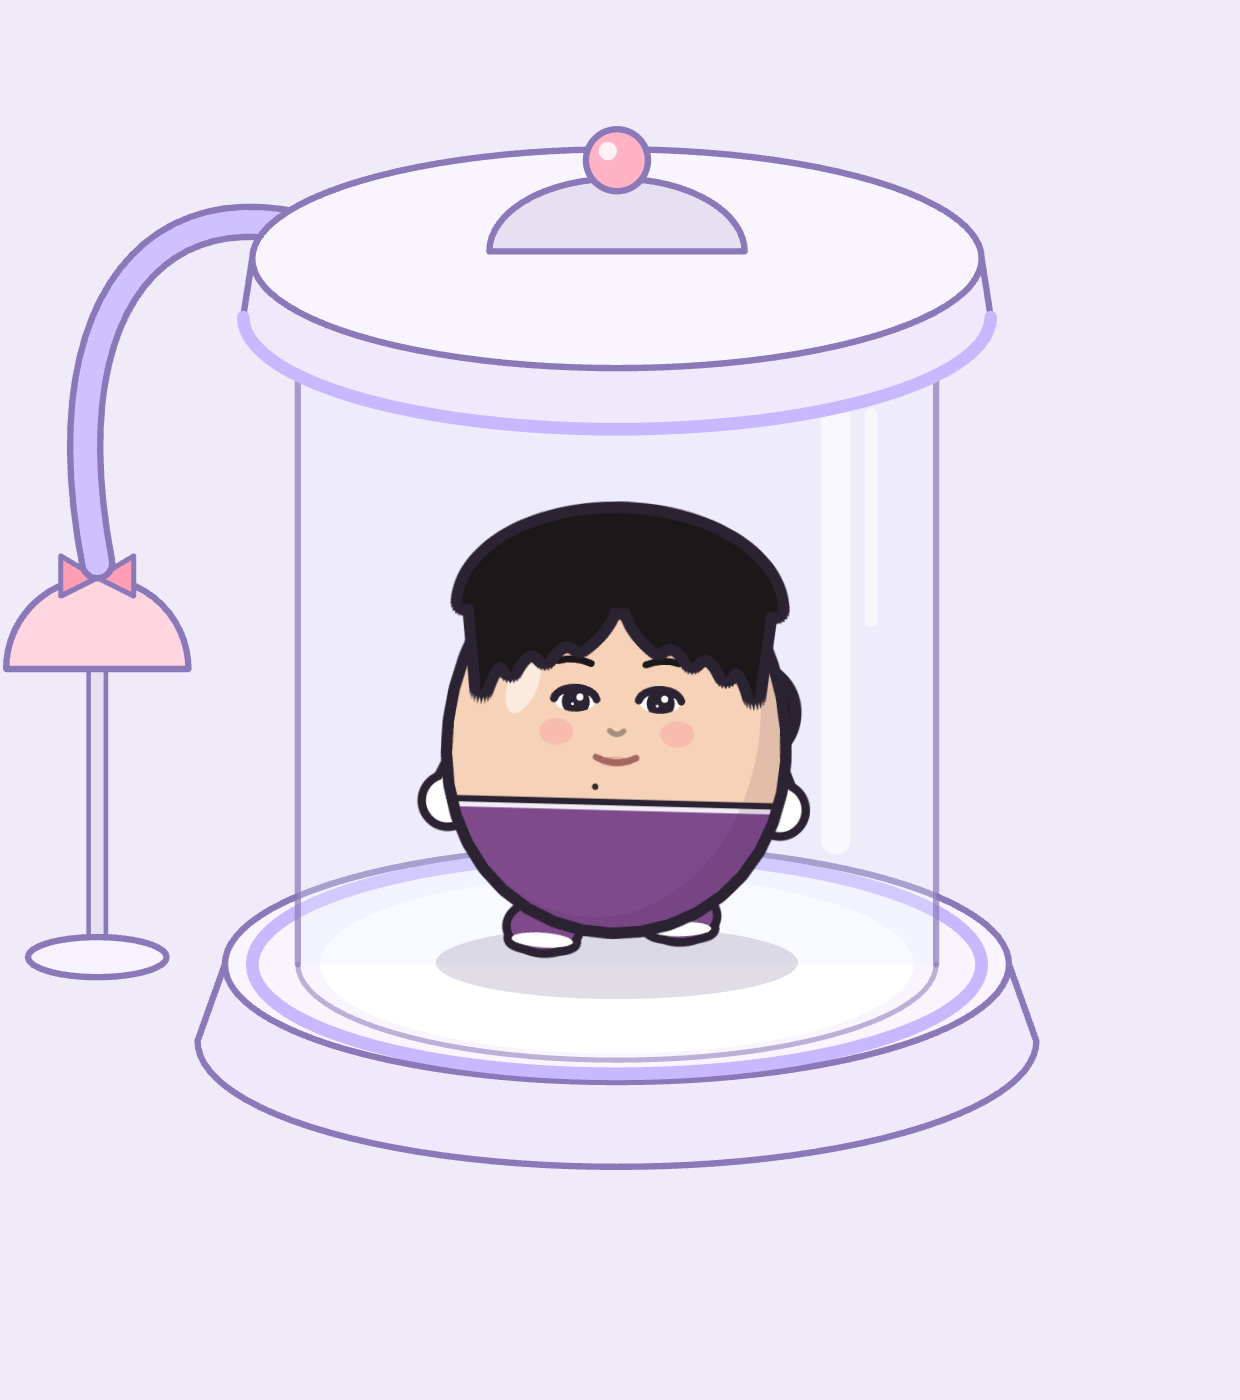
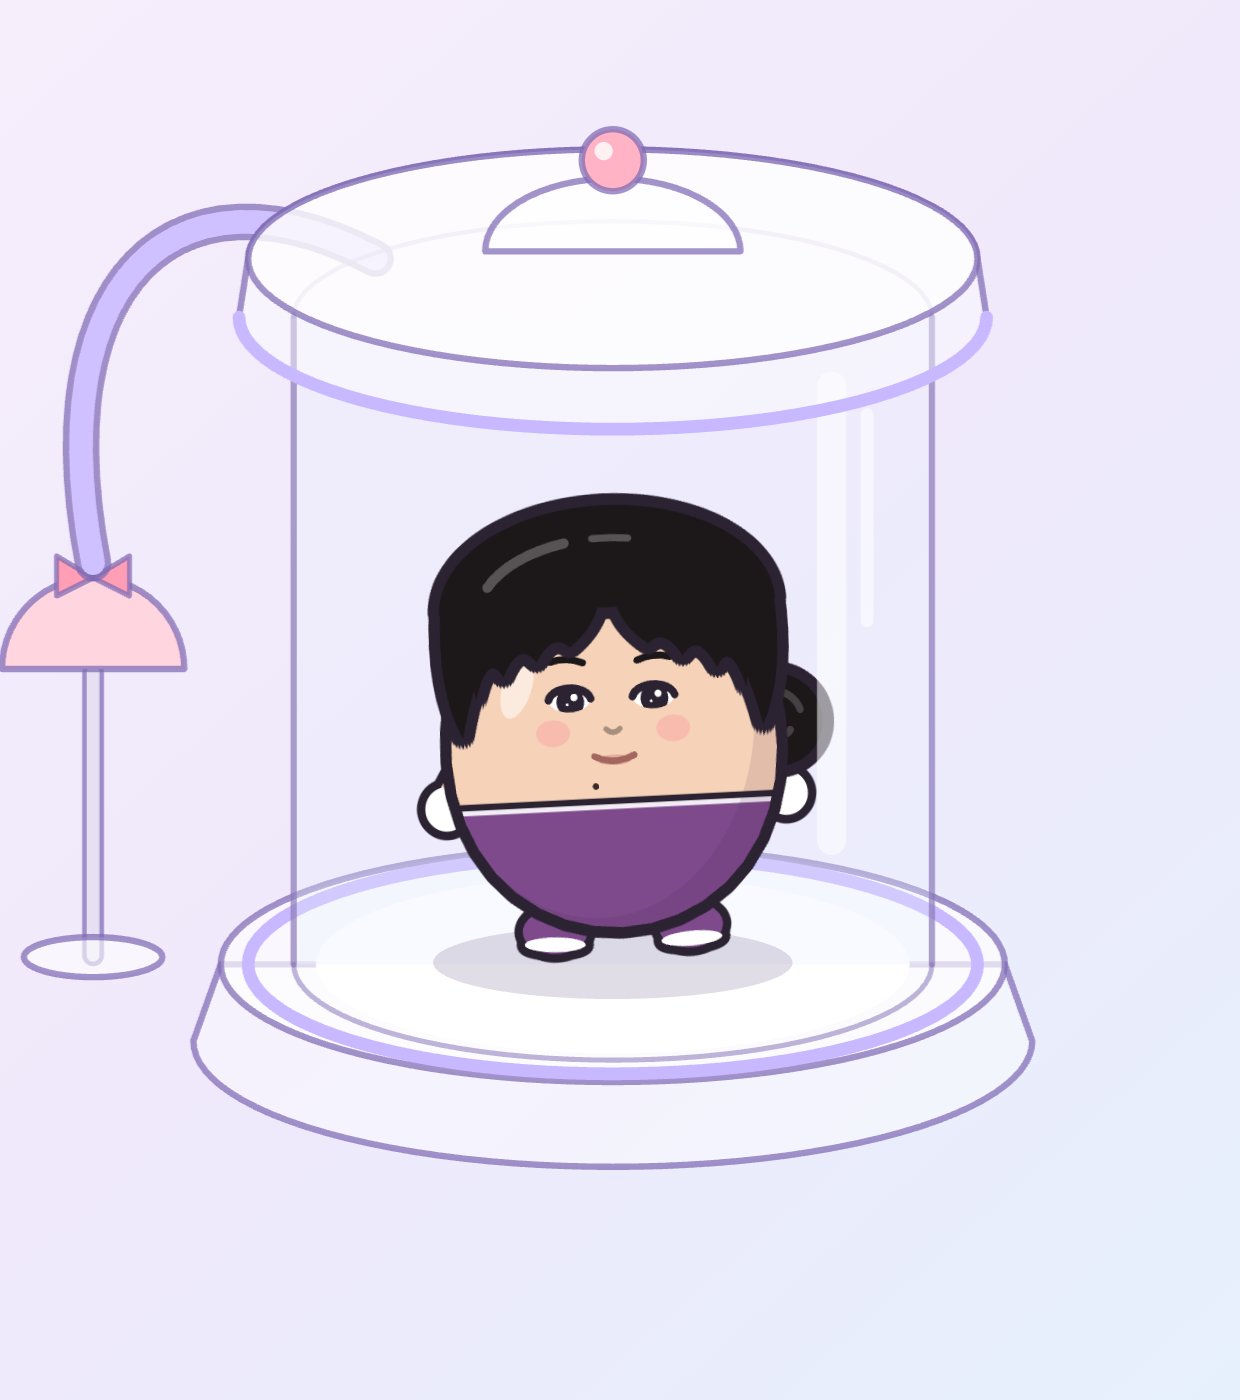
Glassier, more minimal UI; better cartoon hair: fuller crown, side locks, shine, visible bun

diff --git a/src/style.css b/src/style.css
@@ -5,11 +5,14 @@
   --rose: #d9466e;
   --hot: #e2405f;
   --gold: #b87808;
-  --glass: rgba(255, 255, 255, 0.52);
-  --glass-strong: rgba(255, 255, 255, 0.78);
-  --glass-hi: inset 0 1px 0 rgba(255, 255, 255, 0.9), inset 0 0 0 1px rgba(255, 255, 255, 0.45);
-  --lift: 0 10px 30px -12px rgba(66, 44, 120, 0.28), 0 2px 6px -2px rgba(66, 44, 120, 0.12);
-  --blur: blur(20px) saturate(1.5);
+  --glass: rgba(255, 255, 255, 0.3);
+  --glass-strong: rgba(255, 255, 255, 0.46);
+  /* a light catching the top edge, a hairline rim, and a faint inner glow at the bottom */
+  --glass-hi: inset 0 1px 0 rgba(255, 255, 255, 0.95), inset 0 0 0 1px rgba(255, 255, 255, 0.55),
+    inset 0 -10px 24px -18px rgba(255, 255, 255, 0.9);
+  --sheen: linear-gradient(150deg, rgba(255, 255, 255, 0.5) 0%, rgba(255, 255, 255, 0.12) 42%, rgba(255, 255, 255, 0.04) 100%);
+  --lift: 0 16px 40px -22px rgba(66, 44, 120, 0.32);
+  --blur: blur(28px) saturate(1.8);
   --radius: 16px;
   --font: 'Fredoka Variable', ui-rounded, system-ui, sans-serif;
   --ease-out: cubic-bezier(0.16, 1, 0.3, 1);
@@ -37,8 +40,10 @@ body {
   font-family: var(--font);
   color: var(--ink);
   background:
-    radial-gradient(120% 80% at 50% 0%, #f4efff 0%, rgba(244, 239, 255, 0) 60%),
+    radial-gradient(120% 80% at 50% 0%, #f6f2ff 0%, rgba(246, 242, 255, 0) 60%),
+    radial-gradient(60% 45% at 8% 22%, rgba(255, 205, 222, 0.7) 0%, rgba(255, 205, 222, 0) 70%),
     radial-gradient(90% 70% at 15% 100%, #ffe3d6 0%, rgba(255, 227, 214, 0) 70%),
+    radial-gradient(55% 45% at 95% 30%, rgba(206, 240, 228, 0.75) 0%, rgba(206, 240, 228, 0) 70%),
     radial-gradient(80% 60% at 90% 90%, #ddeeff 0%, rgba(221, 238, 255, 0) 70%),
     #efe9fb;
   -webkit-font-smoothing: antialiased;
@@ -82,7 +87,7 @@ button {
 }
 
 .glass {
-  background: var(--glass);
+  background: var(--sheen), var(--glass);
   backdrop-filter: var(--blur);
   -webkit-backdrop-filter: var(--blur);
   box-shadow: var(--glass-hi), var(--lift);
@@ -138,8 +143,8 @@ svg {
 
 #splash-title {
   margin: 0;
-  font-size: clamp(48px, 13vw, 84px);
-  font-weight: 650;
+  font-size: clamp(46px, 12vw, 78px);
+  font-weight: 600;
   letter-spacing: -0.03em;
   line-height: 0.95;
 }
@@ -163,9 +168,9 @@ svg {
   align-items: flex-start;
   gap: 4px;
   padding: 16px 16px 14px;
-  border-radius: 20px;
+  border-radius: 22px;
   text-align: left;
-  background: var(--glass-strong);
+  background: var(--sheen), var(--glass-strong);
   transition:
     transform 0.25s var(--ease-out),
     box-shadow 0.25s var(--ease-out);
@@ -176,8 +181,8 @@ svg {
 }
 
 .mode-name {
-  font-size: 24px;
-  font-weight: 650;
+  font-size: 21px;
+  font-weight: 600;
   letter-spacing: -0.01em;
 }
 
@@ -195,7 +200,7 @@ svg {
 }
 
 .mode.hot {
-  background: linear-gradient(160deg, rgba(255, 255, 255, 0.82), rgba(255, 214, 224, 0.82));
+  /* same glass as Play; only the name carries the accent */
 }
 
 .mode.hot .mode-name {
@@ -385,7 +390,7 @@ svg {
   transition:
     opacity 0.18s,
     transform 0.35s var(--ease-out);
-  background: var(--glass-strong);
+  background: var(--sheen), var(--glass-strong);
 }
 
 .bubble::after {
@@ -519,12 +524,12 @@ body.pulse #stage {
   height: 76px;
   padding: 0 34px;
   border-radius: 999px;
-  font-size: 24px;
-  font-weight: 650;
-  background: var(--glass-strong);
+  font-size: 23px;
+  font-weight: 600;
+  background: var(--sheen), var(--glass-strong);
   backdrop-filter: var(--blur);
   -webkit-backdrop-filter: var(--blur);
-  box-shadow: var(--glass-hi), var(--lift), 0 0 0 2px rgba(217, 70, 110, 0.55);
+  box-shadow: var(--glass-hi), var(--lift);
   touch-action: none;
   transition:
     transform 0.25s var(--ease-out),
@@ -541,15 +546,15 @@ body.pulse #stage {
   font-weight: 600;
   padding: 3px 8px;
   border-radius: 8px;
-  background: rgba(43, 36, 64, 0.07);
+  background: rgba(255, 255, 255, 0.55);
   color: var(--ink-2);
 }
 
 .hold.down {
   transform: scale(0.96);
-  background: var(--rose);
+  background: linear-gradient(150deg, rgba(255, 255, 255, 0.28), rgba(255, 255, 255, 0) 50%), rgba(226, 64, 95, 0.78);
   color: #fff;
-  box-shadow: var(--glass-hi), 0 4px 18px -6px var(--rose), 0 0 0 2px var(--rose);
+  box-shadow: var(--glass-hi), 0 10px 30px -12px rgba(226, 64, 95, 0.8);
 }
 
 .hold.down kbd {
@@ -563,7 +568,7 @@ body.pulse #stage {
 
 @keyframes invite {
   50% {
-    box-shadow: var(--glass-hi), var(--lift), 0 0 0 6px rgba(217, 70, 110, 0.25);
+    box-shadow: var(--glass-hi), var(--lift), 0 0 0 8px rgba(255, 255, 255, 0.45);
   }
 }
 
@@ -601,9 +606,9 @@ body.pulse #stage {
 .card {
   width: min(460px, 100%);
   padding: 22px 22px 18px;
-  border-radius: 24px;
+  border-radius: 28px;
   text-align: center;
-  background: var(--glass-strong);
+  background: var(--sheen), var(--glass-strong);
   animation: rise 0.45s var(--ease-out);
 }
 
@@ -700,7 +705,7 @@ body.pulse #stage {
 .primary {
   background: var(--ink);
   color: #fff;
-  box-shadow: 0 8px 22px -10px var(--ink);
+  box-shadow: 0 10px 24px -14px var(--ink);
 }
 
 .primary kbd {
@@ -719,7 +724,7 @@ body.pulse #stage {
 }
 
 .ghost {
-  background: rgba(255, 255, 255, 0.6);
+  background: rgba(255, 255, 255, 0.34);
   box-shadow: var(--glass-hi);
 }
 
@@ -747,8 +752,8 @@ body.pulse #stage {
   right: var(--gutter);
   bottom: max(12px, env(safe-area-inset-bottom));
   width: min(420px, calc(100% - 32px));
-  border-radius: 24px;
-  background: rgba(255, 255, 255, 0.86);
+  border-radius: 28px;
+  background: var(--sheen), rgba(255, 255, 255, 0.5);
   display: flex;
   flex-direction: column;
   animation: slide 0.4s var(--ease-out);
@@ -791,7 +796,8 @@ body.pulse #stage {
   gap: 4px;
   padding: 4px;
   border-radius: 999px;
-  background: rgba(43, 36, 64, 0.06);
+  background: rgba(255, 255, 255, 0.3);
+  box-shadow: inset 0 0 0 1px rgba(255, 255, 255, 0.55);
 }
 
 .seg button {
@@ -804,9 +810,9 @@ body.pulse #stage {
 }
 
 .seg button[aria-selected='true'] {
-  background: #fff;
+  background: rgba(255, 255, 255, 0.85);
   color: var(--ink);
-  box-shadow: 0 2px 8px -3px rgba(43, 36, 64, 0.3);
+  box-shadow: 0 4px 12px -6px rgba(43, 36, 64, 0.3);
 }
 
 .seg.small button {
@@ -919,7 +925,7 @@ body.pulse #stage {
   font-size: 15px;
   font-weight: 600;
   color: var(--ink-2);
-  background: rgba(43, 36, 64, 0.05);
+  background: transparent;
 }
 
 .maker-tabs button[aria-selected='true'] {
@@ -959,9 +965,9 @@ body.pulse #stage {
   justify-items: center;
   gap: 2px;
   padding: 6px 4px 8px;
-  border-radius: 14px;
-  background: rgba(255, 255, 255, 0.7);
-  box-shadow: inset 0 0 0 1px rgba(43, 36, 64, 0.08);
+  border-radius: 16px;
+  background: rgba(255, 255, 255, 0.38);
+  box-shadow: inset 0 0 0 1px rgba(255, 255, 255, 0.6);
   font-size: 12px;
   font-weight: 600;
   color: var(--ink-2);
@@ -973,7 +979,8 @@ body.pulse #stage {
 }
 
 .thumbs button[aria-pressed='true'] {
-  box-shadow: inset 0 0 0 2.5px var(--ink);
+  background: rgba(255, 255, 255, 0.8);
+  box-shadow: inset 0 0 0 2px var(--ink);
   color: var(--ink);
 }
 

diff --git a/src/face2d.ts b/src/face2d.ts
@@ -600,13 +600,28 @@ export function drawHead2D(
       c.beginPath();
       if (look.hair === 'long') c.ellipse(cx, cy - h * 0.05, w * 1.12, h * 0.98, 0, 0, Math.PI * 2);
       else if (look.hair === 'bob') c.ellipse(cx, cy - h * 0.32, w * 1.12, h * 0.72, 0, 0, Math.PI * 2);
+      else if (toon) c.ellipse(cx + w * 1.0, cy + h * 0.02, w * 0.3, w * 0.28, 0.3, 0, Math.PI * 2);
       else c.arc(cx + w * 0.8, cy - h * 0.08, w * 0.26, 0, Math.PI * 2);
       c.fill();
       if (toon && look.hair === 'lowbun') {
-        // scrunchie where the bun meets her head
+        // the bun's twist, a soft shine on it, and a scrunchie where it meets her head
+        const bx = cx + w * 1.0;
+        const by = cy + h * 0.02;
+        c.strokeStyle = 'rgba(255,255,255,0.18)';
+        c.lineWidth = w * 0.045;
+        c.beginPath();
+        c.arc(bx, by, w * 0.17, Math.PI * 1.1, Math.PI * 1.9);
+        c.stroke();
+        c.beginPath();
+        c.arc(bx + w * 0.03, by + w * 0.02, w * 0.08, Math.PI * 0.2, Math.PI * 1.3);
+        c.stroke();
         c.fillStyle = look.outfit;
         c.beginPath();
-        c.ellipse(cx + w * 0.66, cy - h * 0.08, w * 0.07, w * 0.17, 0.2, 0, Math.PI * 2);
+        c.ellipse(cx + w * 0.78, cy + h * 0.0, w * 0.08, w * 0.19, 0.25, 0, Math.PI * 2);
+        c.fill();
+        c.fillStyle = 'rgba(255,255,255,0.35)';
+        c.beginPath();
+        c.ellipse(cx + w * 0.76, cy - h * 0.05, w * 0.025, w * 0.07, 0.25, 0, Math.PI * 2);
         c.fill();
       }
     });
@@ -712,7 +727,9 @@ export function drawHead2D(
     }
     if (look.hair !== 'buzz') {
       c.beginPath();
-      c.ellipse(cx, capY, w * 0.97, h * 0.47, 0, Math.PI, Math.PI * 2);
+      // a fuller crown in the cartoon style: a little wider than her head, like real volume
+      if (toon) c.ellipse(cx, capY + h * 0.01, w * 1.04, h * 0.5, 0, Math.PI, Math.PI * 2);
+      else c.ellipse(cx, capY, w * 0.97, h * 0.47, 0, Math.PI, Math.PI * 2);
       c.closePath();
       c.fill();
     } else {
@@ -795,7 +812,37 @@ export function drawHead2D(
         c.arc(cx, look.hair === 'bun' ? top - w * 0.1 : cy - h * 0.05, w * 0.32, 0, Math.PI * 2);
         c.fill();
       }
-    } else drawBangs(c, look, faceS * 1.3, cx, capY, o);
+    } else {
+      if (toon && (look.hair === 'lowbun' || look.hair === 'long' || look.hair === 'bob' || look.hair === 'ponytail')) {
+        // face-framing side locks that tuck in toward her cheeks
+        c.fillStyle = hairFill;
+        const deep = look.hair === 'long' ? 0.32 : look.hair === 'bob' ? 0.14 : 0.04;
+        for (const sx of [-1, 1]) {
+          c.beginPath();
+          c.moveTo(cx + sx * w * 1.03, capY - h * 0.03);
+          c.quadraticCurveTo(cx + sx * w * 1.08, cy - h * 0.2, cx + sx * w * 0.93, cy + h * deep);
+          c.quadraticCurveTo(cx + sx * w * 0.84, cy - h * 0.28, cx + sx * w * 0.66, capY + h * 0.06);
+          c.closePath();
+          c.fill();
+        }
+      }
+      drawBangs(c, look, faceS * 1.3, cx, capY, o);
+      if (toon && look.hair !== 'buzz') {
+        // the classic glossy cartoon hair shine: a soft band across the crown
+        c.save();
+        c.strokeStyle = 'rgba(255,255,255,0.26)';
+        c.lineCap = 'round';
+        c.lineWidth = h * 0.05;
+        c.beginPath();
+        c.ellipse(cx, capY + h * 0.03, w * 0.8, h * 0.36, 0, Math.PI * 1.13, Math.PI * 1.4);
+        c.stroke();
+        c.lineWidth = h * 0.035;
+        c.beginPath();
+        c.ellipse(cx, capY + h * 0.03, w * 0.8, h * 0.36, 0, Math.PI * 1.47, Math.PI * 1.56);
+        c.stroke();
+        c.restore();
+      }
+    }
   });
 
   if (!o.back && look.glasses !== 'none') drawGlasses2D(ctx, look, cx, faceY - faceS * 0.05, faceS, ghost);

diff --git a/src/render/scene.ts b/src/render/scene.ts
@@ -10,7 +10,7 @@ const CONFETTI_COLORS = ['#ff9eb5', '#b9a4ff', '#7fd6c2', '#ffc46b', '#8cc8ff', 
 const TUBE_R = 1.75;
 const TUBE_H = 3.55;
 /** soft outline for the chamber, so she stays the boldest thing on screen */
-const LINE = '#8a78b8';
+const LINE = 'rgba(126,106,180,0.72)';
 const INK = '#2b2232';
 
 interface Bit {
@@ -149,7 +149,7 @@ export class Stage {
     line(b, u * 0.12, LINE);
     line(b, u * 0.07, '#e6e0f2');
     ell(b, gx, 0.04, 0.38, 0.11);
-    b.fillStyle = '#f6f2ff';
+    b.fillStyle = 'rgba(255,255,255,0.6)';
     b.fill();
     line(b);
     b.beginPath();
@@ -184,11 +184,11 @@ export class Stage {
     b.ellipse(X(0), Y(-0.42), 2.3 * u, 2.3 * RY * u, 0, Math.PI, 0, true);
     b.lineTo(X(2.15), Y(0));
     b.closePath();
-    b.fillStyle = '#efe9fb';
+    b.fillStyle = 'rgba(255,255,255,0.42)';
     b.fill();
     line(b);
     ell(b, 0, 0, 2.15, 2.15 * RY);
-    b.fillStyle = '#f8f5ff';
+    b.fillStyle = 'rgba(255,255,255,0.68)';
     b.fill();
     line(b);
     ell(b, 0, 0, 2.0, 2.0 * RY);
@@ -233,19 +233,19 @@ export class Stage {
     f.lineTo(X(2.05), Y(TUBE_H));
     f.ellipse(X(0), Y(TUBE_H), 2.05 * u, 2.05 * RY * u, 0, 0, Math.PI);
     f.closePath();
-    f.fillStyle = '#efe9fb';
+    f.fillStyle = 'rgba(255,255,255,0.42)';
     f.fill();
     line(f);
     ell(f, 0, TUBE_H, 2.05, 2.05 * RY, 0, Math.PI);
     line(f, u * 0.07, '#c8b8ff');
     ell(f, 0, TUBE_H + 0.32, 2.0, 2.0 * RY);
-    f.fillStyle = '#f8f5ff';
+    f.fillStyle = 'rgba(255,255,255,0.68)';
     f.fill();
     line(f);
     f.beginPath();
     f.ellipse(X(0), Y(TUBE_H + 0.36), 0.7 * u, 0.4 * u, 0, Math.PI, Math.PI * 2);
     f.closePath();
-    f.fillStyle = '#e6e0f2';
+    f.fillStyle = 'rgba(255,255,255,0.5)';
     f.fill();
     line(f);
   }
